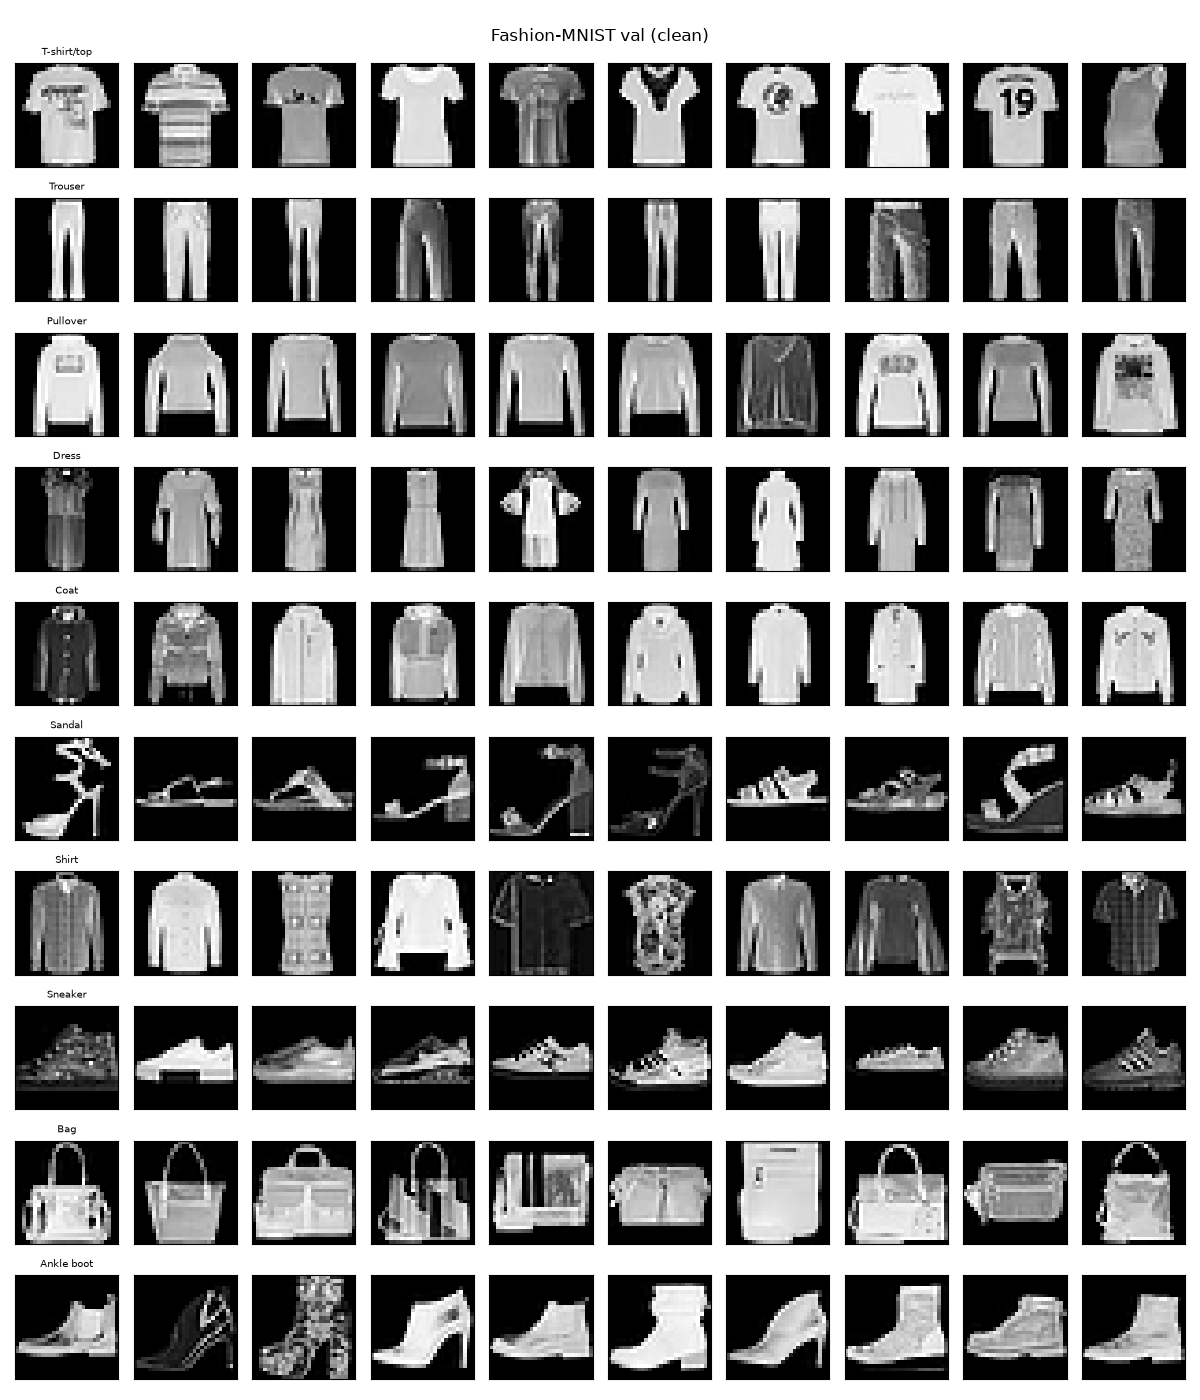
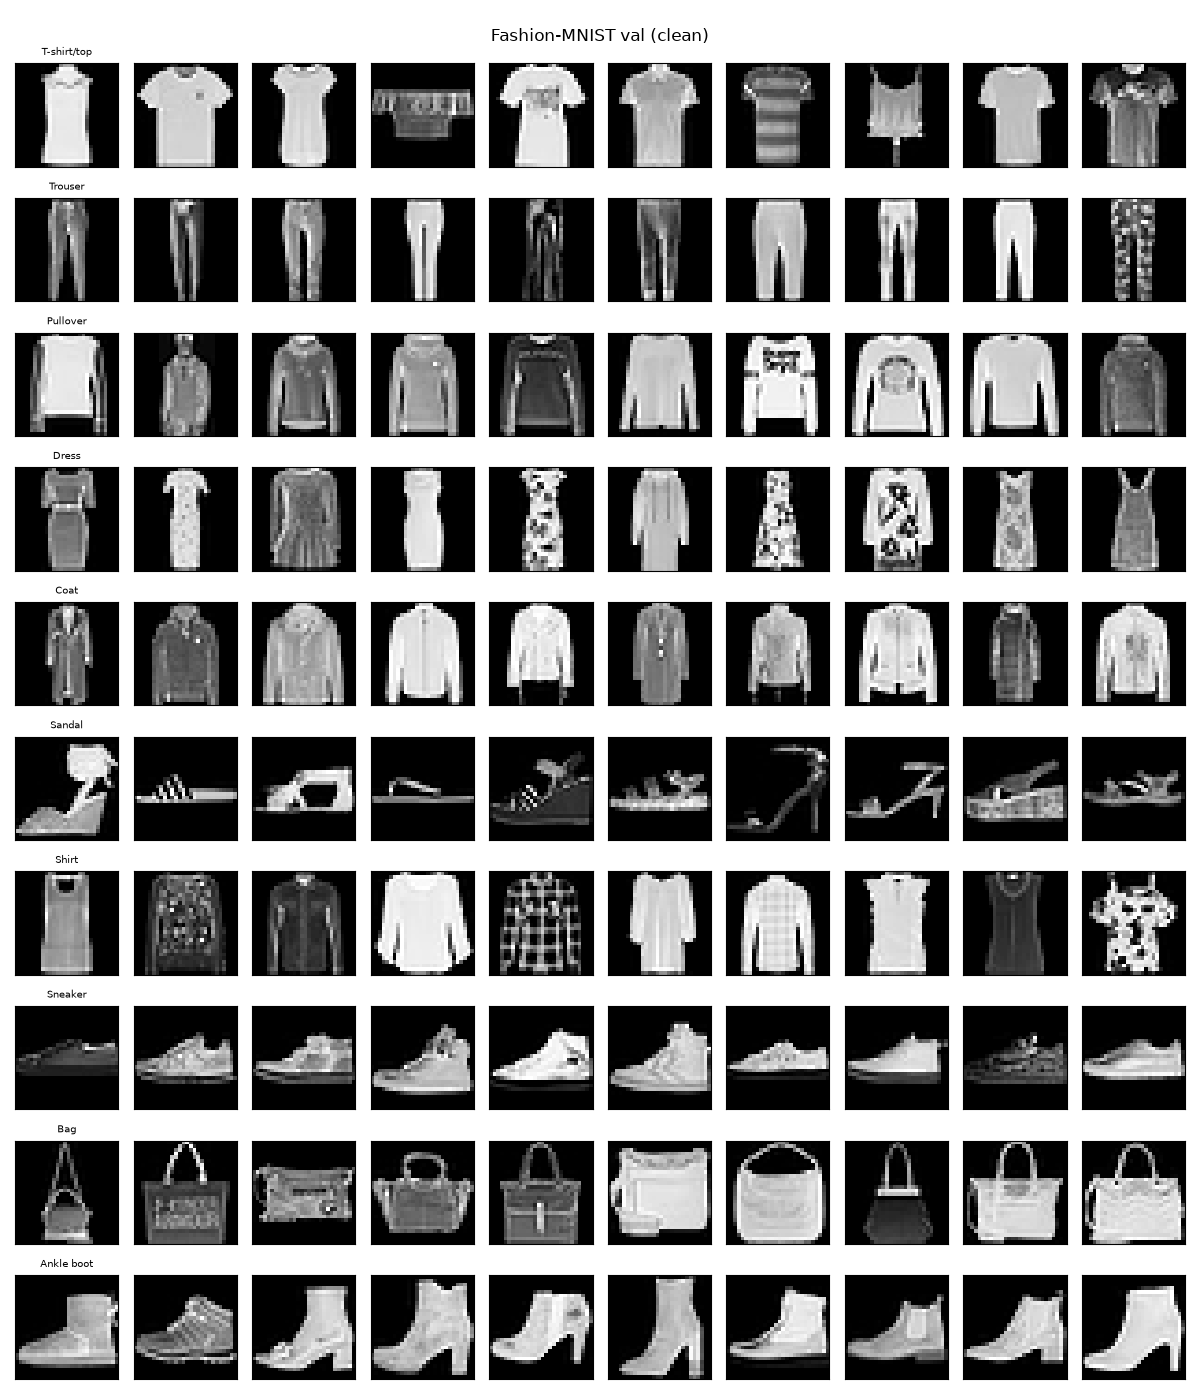
phase 0 fix: brightness shift is 50/50 multiplicative or additive, mode recorded in shifted_val

Changed region(s): [[0.0, 0.0307, 0.9867, 0.9829], [0.1233, 0.6143, 0.185, 0.7064], [0.5242, 0.3379, 0.5858, 0.3993]]

diff --git a/acenet/shift.py b/acenet/shift.py
@@ -15,7 +15,9 @@ SHIFTED_VAL_PATH = os.path.join(ROOT, "shifted_val.npz")
 # Parameter ranges for the mixed shifted-val set.
 ROTATE_MAX_DEG = 15.0
 NOISE_SIGMA = (0.1, 0.3)
-BRIGHTNESS_MAX = 0.3
+BRIGHTNESS_MAX = 0.3      # multiplicative: pixel * (1 + s), s in [-0.3, 0.3]
+BRIGHTNESS_ADD_MAX = 0.2  # additive: pixel + c, c in [-0.2, 0.2]
+BRIGHTNESS_MODES = ("mul", "add")
 
 
 def rotate(X, degrees):
@@ -51,14 +53,14 @@ def rotate(X, degrees):
     return out.astype(X.dtype)
 
 
-def make_shifted(X, kind, severity, rng):
+def make_shifted(X, kind, severity, rng, mode=0):
     """Apply one shift kind to [0, 1] images X of shape (N, 28, 28) or (N, 1, 28, 28).
 
     severity (scalar or per-sample (N,)) is the shift parameter itself:
       rotate     -> angle in degrees (signed)
       noise      -> Gaussian sigma on the [0, 1] scale
-      brightness -> relative change, pixel * (1 + severity)
-    rng supplies the noise draws. Returns float32 in [0, 1] with the input's shape.
+      brightness -> mode 0 ("mul"): pixel * (1 + severity); mode 1 ("add"): pixel + severity
+    mode (scalar or per-sample (N,)) only applies to brightness. rng supplies the noise draws. Returns float32 in [0, 1] with the input's shape.
     """
     shape = X.shape
     X = np.asarray(X, dtype=np.float32).reshape(shape[0], 28, 28)
@@ -68,20 +70,28 @@ def make_shifted(X, kind, severity, rng):
     elif kind == "noise":
         out = X + sev * rng.standard_normal(X.shape, dtype=np.float32)
     elif kind == "brightness":
-        out = X * (1 + sev)
+        add = np.broadcast_to(np.asarray(mode), (shape[0],))[:, None, None] == 1
+        out = np.where(add, X + sev, X * (1 + sev))
     else:
         raise ValueError(f"unknown shift kind {kind!r}; expected one of {KINDS}")
     return np.clip(out, 0.0, 1.0).astype(np.float32).reshape(shape)
 
 
 def sample_severity(kind, n, rng):
-    """Draw n per-sample parameters from the shifted-val ranges for one kind."""
+    """Draw n per-sample parameters from the shifted-val ranges for one kind.
+
+    Returns (severity, mode); mode is the brightness mode (0 mul / 1 add, 50/50), else -1.
+    """
+    mode = np.full(n, -1, dtype=np.int8)
     if kind == "rotate":
-        return rng.uniform(-ROTATE_MAX_DEG, ROTATE_MAX_DEG, n)
+        return rng.uniform(-ROTATE_MAX_DEG, ROTATE_MAX_DEG, n), mode
     if kind == "noise":
-        return rng.uniform(*NOISE_SIGMA, n)
+        return rng.uniform(*NOISE_SIGMA, n), mode
     if kind == "brightness":
-        return rng.uniform(-BRIGHTNESS_MAX, BRIGHTNESS_MAX, n)
+        mode = rng.integers(0, 2, n).astype(np.int8)
+        sev = np.where(mode == 1, rng.uniform(-BRIGHTNESS_ADD_MAX, BRIGHTNESS_ADD_MAX, n),
+                       rng.uniform(-BRIGHTNESS_MAX, BRIGHTNESS_MAX, n))
+        return sev, mode
     raise ValueError(f"unknown shift kind {kind!r}")
 
 
@@ -89,23 +99,26 @@ def build_shifted_val(X_val01, y_val, rng, path=SHIFTED_VAL_PATH):
     """Mixed-kind shifted copy of the [0, 1] validation images, saved to path.
 
     Each sample gets one kind uniformly at random and a parameter from that kind's range.
-    Saves X (float32 [0, 1], (N, 28, 28)), y, kind (index into KINDS), severity.
+    Saves X (float32 [0, 1], (N, 28, 28)), y, kind (index into KINDS), severity, and mode
+    (brightness mode index into BRIGHTNESS_MODES; -1 for other kinds).
     """
     N = X_val01.shape[0]
     X_val01 = X_val01.reshape(N, 28, 28)
     kind = rng.integers(0, len(KINDS), N)
     severity = np.zeros(N, dtype=np.float32)
+    mode = np.full(N, -1, dtype=np.int8)
     X = np.empty((N, 28, 28), dtype=np.float32)
     for k, name in enumerate(KINDS):
         m = kind == k
-        severity[m] = sample_severity(name, int(m.sum()), rng)
-        X[m] = make_shifted(X_val01[m], name, severity[m], rng)
-    np.savez_compressed(path, X=X, y=y_val, kind=kind, severity=severity,
-                        kinds=np.array(KINDS))
-    return X, kind, severity
+        severity[m], mode[m] = sample_severity(name, int(m.sum()), rng)
+        X[m] = make_shifted(X_val01[m], name, severity[m], rng, mode[m])
+    np.savez_compressed(path, X=X, y=y_val, kind=kind, severity=severity, mode=mode,
+                        kinds=np.array(KINDS), brightness_modes=np.array(BRIGHTNESS_MODES))
+    return X, kind, severity, mode
 
 
 def load_shifted_val(mean, std, flatten=False, path=SHIFTED_VAL_PATH):
     """Load shifted val and standardize it with the train-split statistics."""
     d = np.load(path)
-    return standardize(d["X"], mean, std, flatten), d["y"].astype(np.int64), d["kind"], d["severity"]
+    return (standardize(d["X"], mean, std, flatten), d["y"].astype(np.int64),
+            d["kind"], d["severity"], d["mode"])

diff --git a/experiments/show_data.py b/experiments/show_data.py
@@ -12,7 +12,14 @@ from acenet.shift import KINDS, SHIFTED_VAL_PATH, build_shifted_val
 
 SEED = 0
 OUT_DIR = os.path.join(os.path.dirname(os.path.abspath(__file__)), "figures")
-SHORT = {"rotate": "rot", "noise": "noise", "brightness": "bright"}
+
+
+def caption(kind, sev, mode):
+    if KINDS[kind] == "rotate":
+        return f"rot {sev:+.1f}°"
+    if KINDS[kind] == "noise":
+        return f"noise σ={sev:.2f}"
+    return f"bright ×{1 + sev:.2f}" if mode == 0 else f"bright {sev:+.2f}"
 
 
 def grid(X, y, rng, title, path, captions=None):
@@ -39,13 +46,11 @@ def main():
     splits = load_splits(rng)
     X_val01 = to_unit(load()[0][splits["val_idx"]])
     y_val = splits["y_val"]
-    X_sh, kind, sev = build_shifted_val(X_val01, y_val, rng)
+    X_sh, kind, sev, mode = build_shifted_val(X_val01, y_val, rng)
     print(f"wrote {SHIFTED_VAL_PATH}: {X_sh.shape}, kinds {np.bincount(kind, minlength=3)}")
 
     os.makedirs(OUT_DIR, exist_ok=True)
-    unit = {"rotate": "°", "noise": "", "brightness": ""}
-    captions = [f"{SHORT[KINDS[k]]} {s:+.2f}{unit[KINDS[k]]}" if KINDS[k] != "noise"
-                else f"noise σ={s:.2f}" for k, s in zip(kind, sev)]
+    captions = [caption(k, s, m) for k, s, m in zip(kind, sev, mode)]
     grid(X_val01, y_val, rng, "Fashion-MNIST val (clean)", os.path.join(OUT_DIR, "val_clean.png"))
     grid(X_sh, y_val, rng, "Fashion-MNIST val (shifted, mixed kinds)",
          os.path.join(OUT_DIR, "val_shifted.png"), captions)

diff --git a/tests/test_data.py b/tests/test_data.py
@@ -85,3 +85,9 @@ def test_shifts_stay_in_unit_range():
         out = make_shifted(X, kind, sev, rng)
         assert out.shape == X.shape and out.dtype == np.float32
         assert out.min() >= 0 and out.max() <= 1
+
+
+def test_brightness_modes():
+    X = np.full((2, 28, 28), 0.5, dtype=np.float32)
+    out = make_shifted(X, "brightness", [0.2, 0.2], np.random.default_rng(0), mode=[0, 1])
+    assert np.allclose(out[0], 0.6) and np.allclose(out[1], 0.7)
